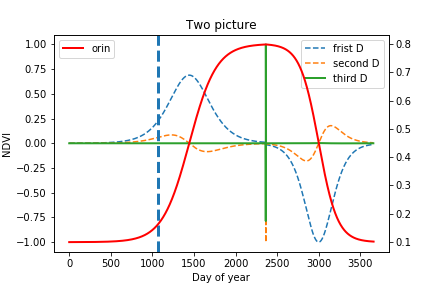
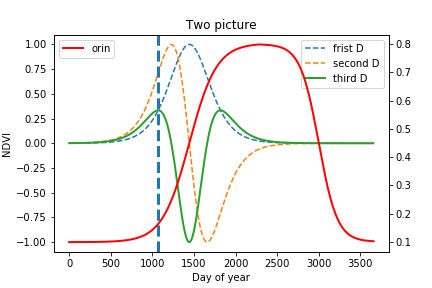
smallChange

diff --git a/GUDsimulation/UIInterface/logsticFit.py b/GUDsimulation/UIInterface/logsticFit.py
@@ -3,6 +3,7 @@ import matplotlib.pyplot as plt
 from scipy.optimize import leastsq
 import timeseris
 
+
 '''
 
 目前暂时是前端和后端单独拟合后使用其系数
@@ -86,19 +87,20 @@ def curve_fit(NDVI):
     totalLine = timeseris.merge_lines(regress_line_up ,regress_line_down)
     
     
-
+    '''
     p0 = [10,-0.007,0.7,0.1,-27,0.009]
     regress_parameter = Logistic_regressNew(x,NDVI,p0)
     print(regress_parameter)
     regress_line = pevalNew(x, regress_parameter)
     
-    plt.figure() 
-    
+
+    plt.figure(figsize = (10,10)) 
     plt.plot(range(len(NDVI)),NDVI,lw=4)
     plt.plot(range(len(regress_line)),regress_line)
     plt.plot(range(len(totalLine)),totalLine)
+    plt.title('logis')
     plt.show()
-
+    '''
 
     
     '''
@@ -110,4 +112,4 @@ def curve_fit(NDVI):
     plt.show()
     '''
 
-    return [regress_line_up,regress_line_down,regress_line]
+    return [regress_line_up,regress_line_down,totalLine]
